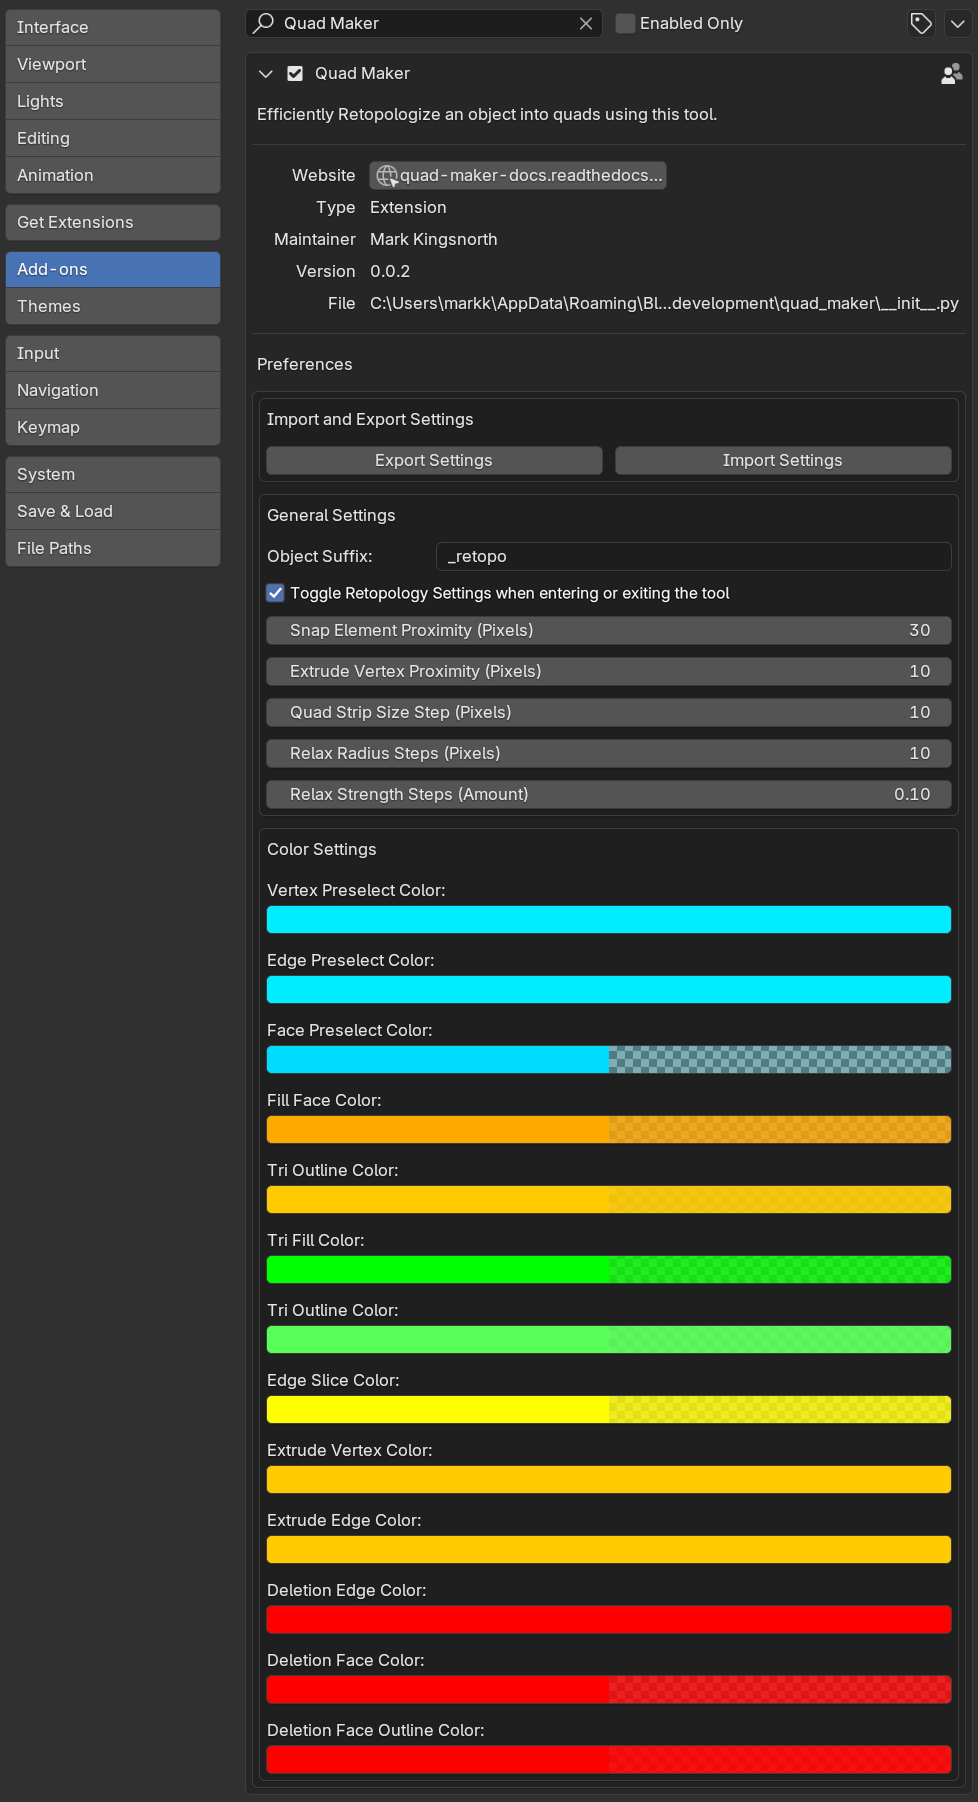
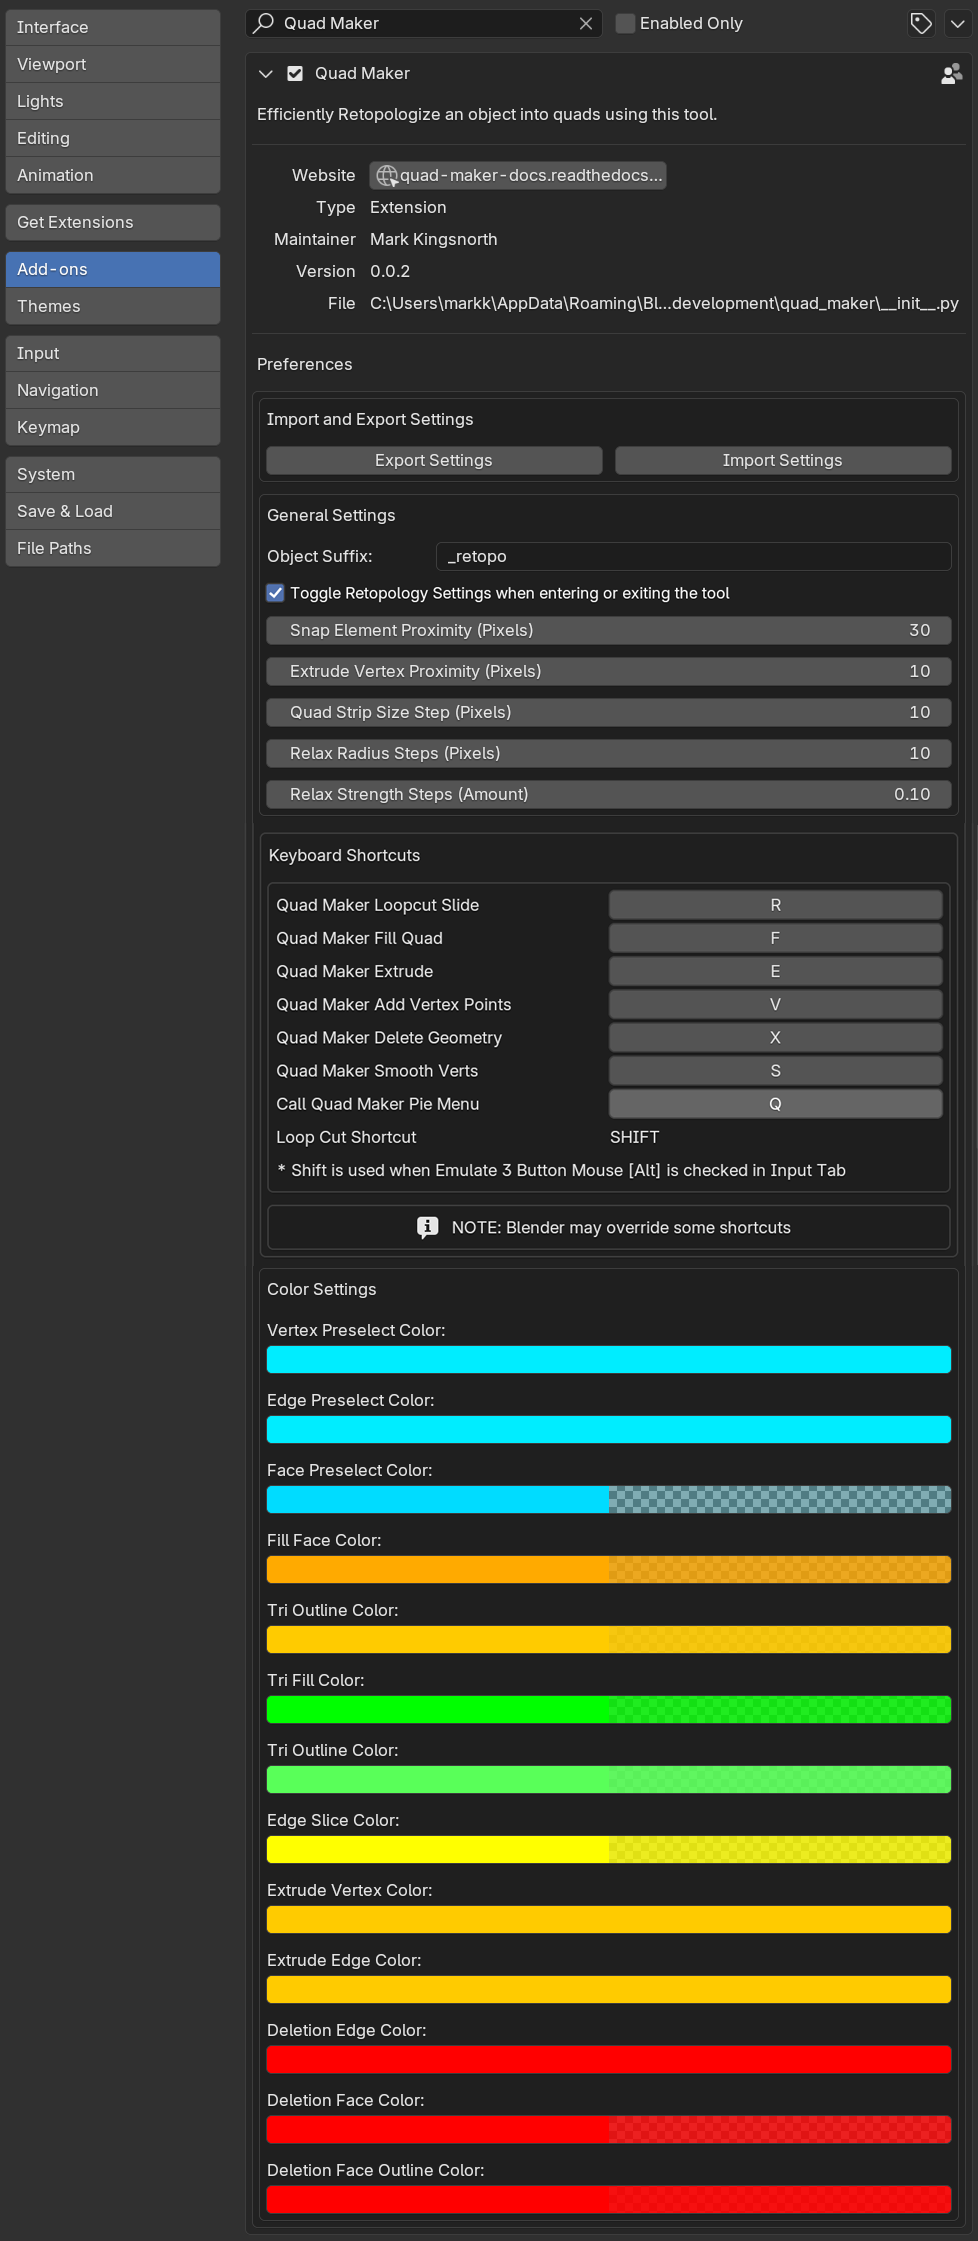
Added notes about keyboard shortcuts

diff --git a/docs/troubleshooting.rst b/docs/troubleshooting.rst
@@ -18,8 +18,14 @@ The :ref:`New Object with Quad Maker<new_blank_mesh>` option is greyed out.  Why
 Make sure you have an object selected in Object Mode before trying to use this option.  If you have an object selected in Edit Mode, the option will be greyed out.
 
 -----------------------------------------
-Can I change the keyboard shortcuts?
+Can I change the keyboard shortcuts for the tool?
 -----------------------------------------
+
+Go to Edit - Preferences - Add-ons and search for *Quad Maker* and expand the Quad Maker Section.  Here you can change the keyboard shortcuts for each operation.
+
+
+.. image:: _static/images/preferences_keyboard_shortcuts.png
+   :alt: Keymap
 
 .. warning::
         
@@ -30,18 +36,6 @@ Can I change the keyboard shortcuts?
     Therefore, assigning other industry standard shortcuts may not be possible.
 
     Changing the keyboard shortcuts is therefore not recommended as it may cause conflicts with Blender or other add-ons.
-
-Go to Edit - Preferences in Blender and select the *Keymap* tab.  Search for *Quad Maker* and you will see all the shortcuts you can change.
-
-.. image:: _static/images/keymaps.jpg
-   :alt: Keymap
-
-
----------------------------------------------------------------------------------------------------------------------------
-When I use operations like Alt-Select for an Edge Loop, the view is rotated instead.  Why is this?
----------------------------------------------------------------------------------------------------------------------------
-
-This may be because you have "Emulate 3 Button Mouse" enabled under Edit - Preferences - Input.  This can cause conflicts with the Quad Maker tool.  Try disabling this option in Preferences.
 
 ============================================================================================================
 Retopology Resources

diff --git a/docs/preferences.rst b/docs/preferences.rst
@@ -47,6 +47,16 @@ Smooth Strength Steps (Amount)
 
 When increasing or decreasing the strength of the Smooth brush, how much to increase or decrease the strength by.
 
+======================================================
+Keyboard Shortcuts
+======================================================
+
+This allows you to change the keyboard shortcuts for each :ref:`operation<operations>` in Quad Maker.
+
+
+.. note::
+    If **Emulate 3 Button Mouse** is checked under Blender's *Edit - Preferences - Input* tab and the *Alt* key is used as the middle mouse button, the *shift* key is always used to perform loop selections
+
 
 ======================================================
 Color Settings

diff --git a/docs/operations.rst b/docs/operations.rst
@@ -258,7 +258,7 @@ Tweak Elements
 
   .. note::
 
-    \* When *Emulate 3 Button Mouse* is selected in preferences,  ``Hold Shift + Left Click + Drag`` to select and move edge loops instead.
+    \* When *Emulate 3 Button Mouse* is selected in preferences and the Alt key is used for the middle mouse,  ``Hold Shift + Left Click + Drag`` to select and move edge loops instead.
 
 ----------------------------------------------------------------------
 
